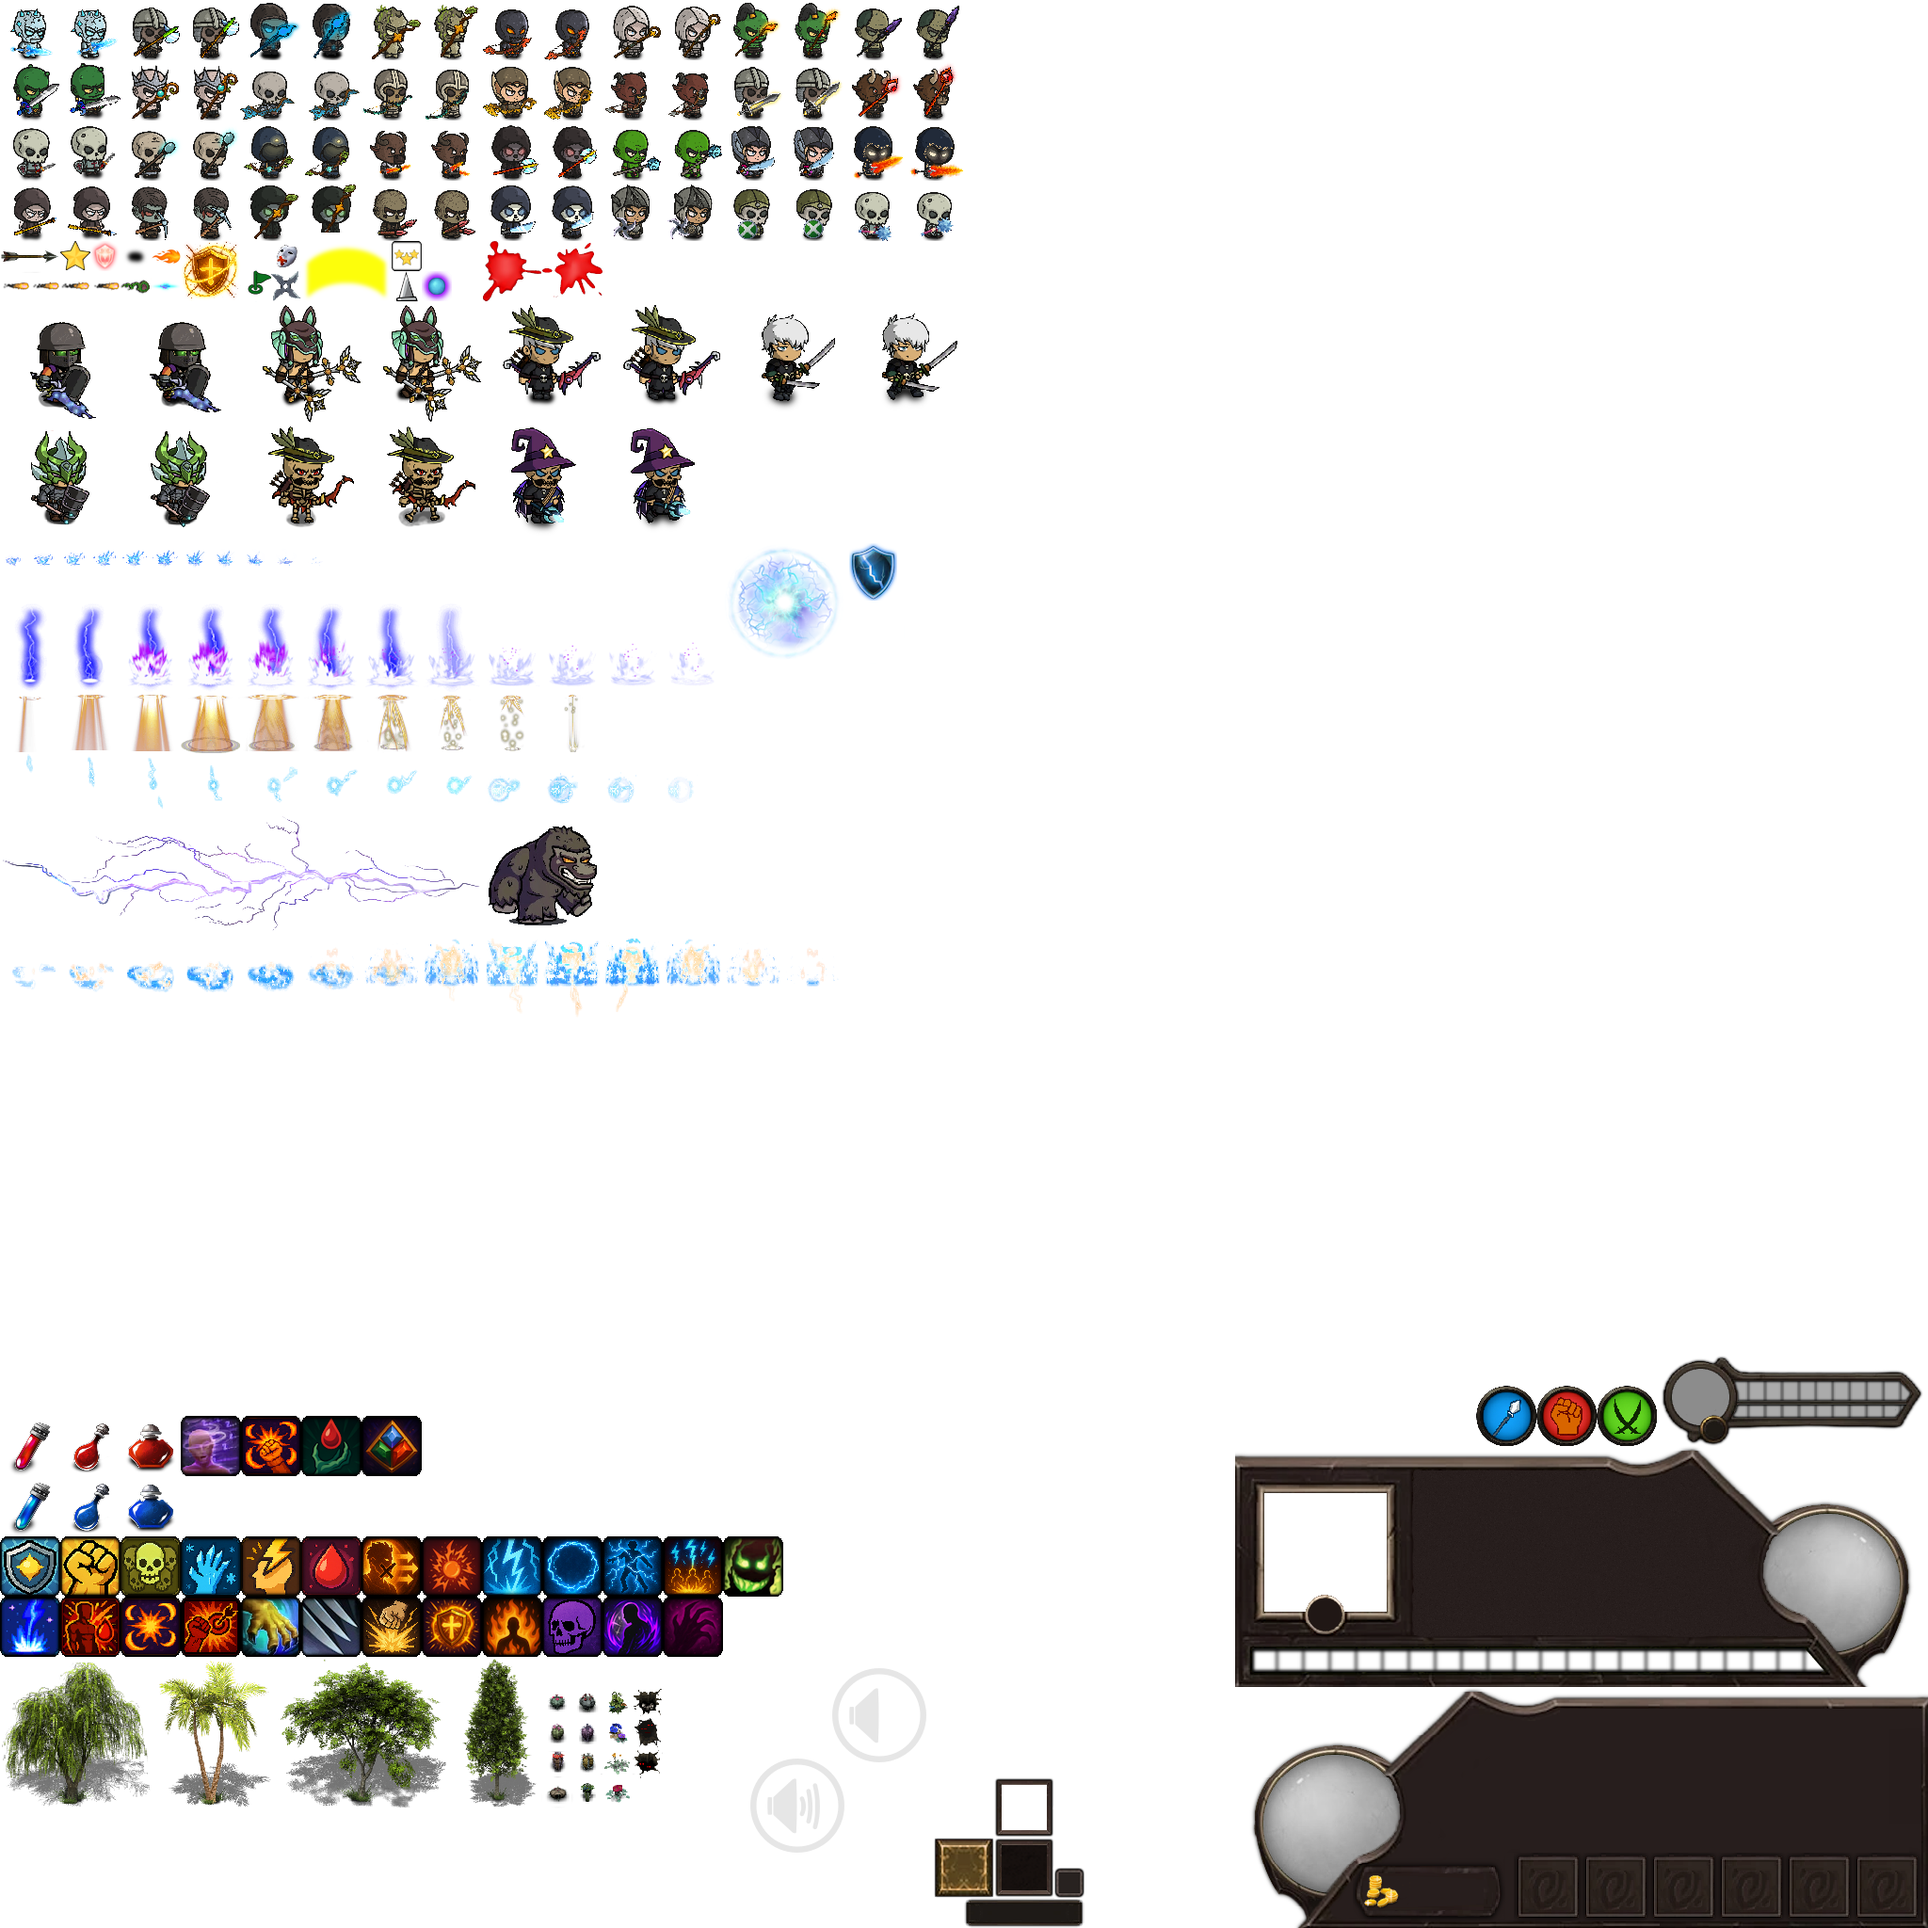
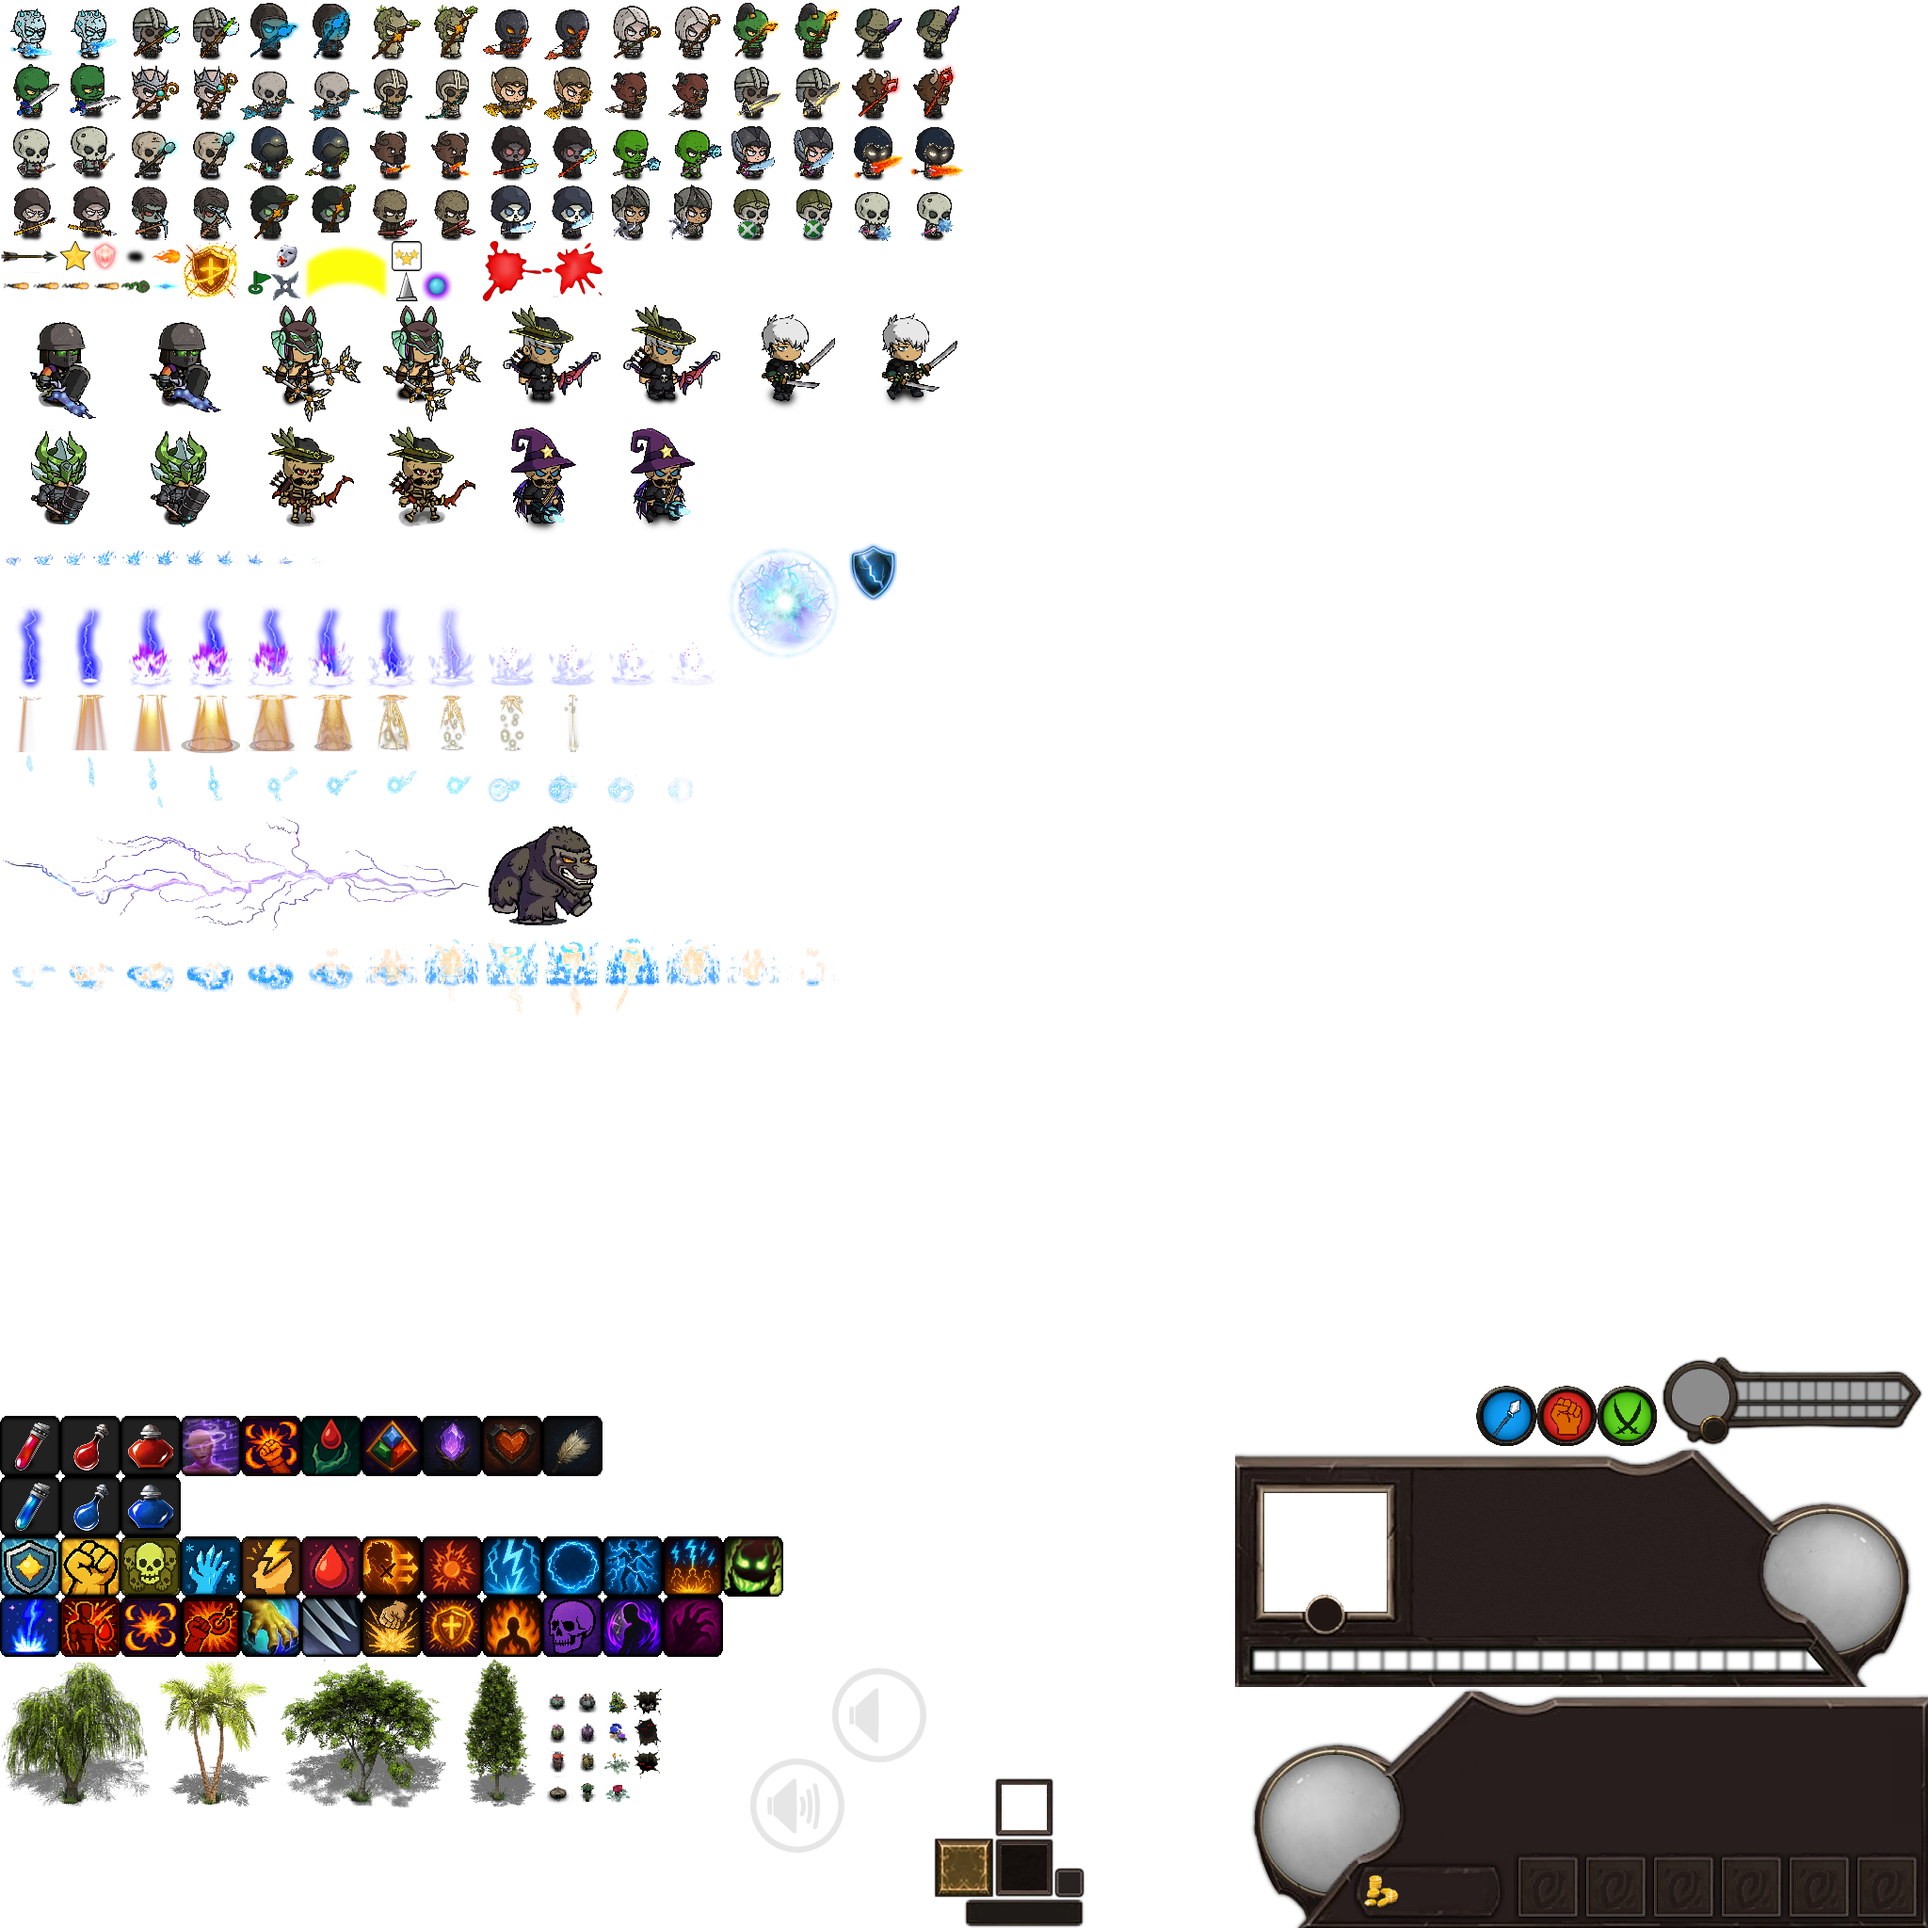
Add item that gives +15 agi and +5 str/int. Add item that gives +15 str and +5 int/agi. Add item that gives +15 int and +5 str/agi.

Changed region(s): [[0.0, 0.7188, 0.0938, 0.8125], [0.2188, 0.7188, 0.3125, 0.7812]]

diff --git a/TODO.md b/TODO.md
@@ -5,12 +5,13 @@
 📍 [Go to Roadmap](./roadmap.md)  
 📝 [Go to Changelog](./changelog.md)
 
+- Permitir abrir/cerrar el shop estando en pausa
+- No seleccionar unidad si hacemos click izquierdo teniendo un skill cargado
 - Agregar afecto de nubes
 - Agregar efecto de lluvia y rayos
 - Agregar boton para mutear el juego
 - Agregar algunos items más
 - Crear skill que brinda un 20% de stunear al enemigo ante cada ataque recibido
-- Corregir problema de cursor en modo ataque sobre entidades
 
 - Revisar sonidos en loop
 - Agregar un item que brinda daño splash a todo alreadedor del target (es diferente al cleave)
@@ -19,7 +20,6 @@
 - Sonidos limitarlos a la vista en pantalla
 - Agregar barra de vida del moomoo y del pj fijas en algun lugar comodo
 - Modificar particulas en la explosión de proyectil natura ball
-- Agregar sonido cuando impacta una flecha
 - Agregar habilidad que consume 15 del hp por un proyectil que quema al enemigo durante 5 segundos, causando 15 de daño cada segundo
 
 - Ver sonidos que entran en loop indebidamente

diff --git a/changelog.md b/changelog.md
@@ -2,6 +2,9 @@
 
 📆 xx/07/2025
 
+- ✅ Add item that gives +15 int and +5 str/agi.
+- ✅ Add item that gives +15 str and +5 int/agi.
+- ✅ Add item that gives +15 agi and +5 str/int.
 - ✅ Do not dim passive skills when we are silenced. Dim skills not learned.
 - ✅ Add a border to the unit we are attacking and also to the one we are hovering over
 - ✅ Rearranging items in the inventory, being able to sell them
